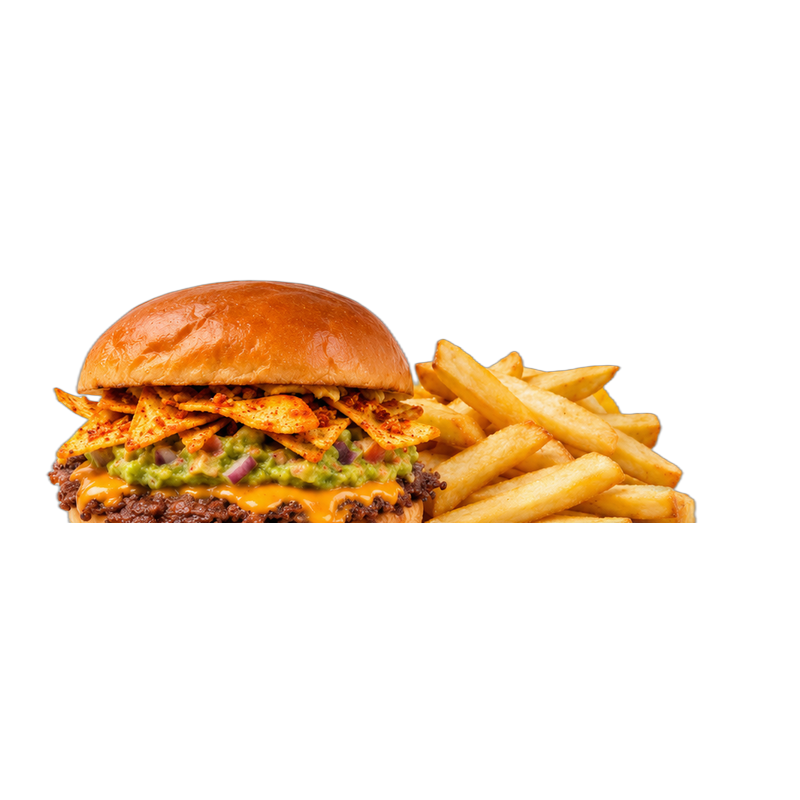
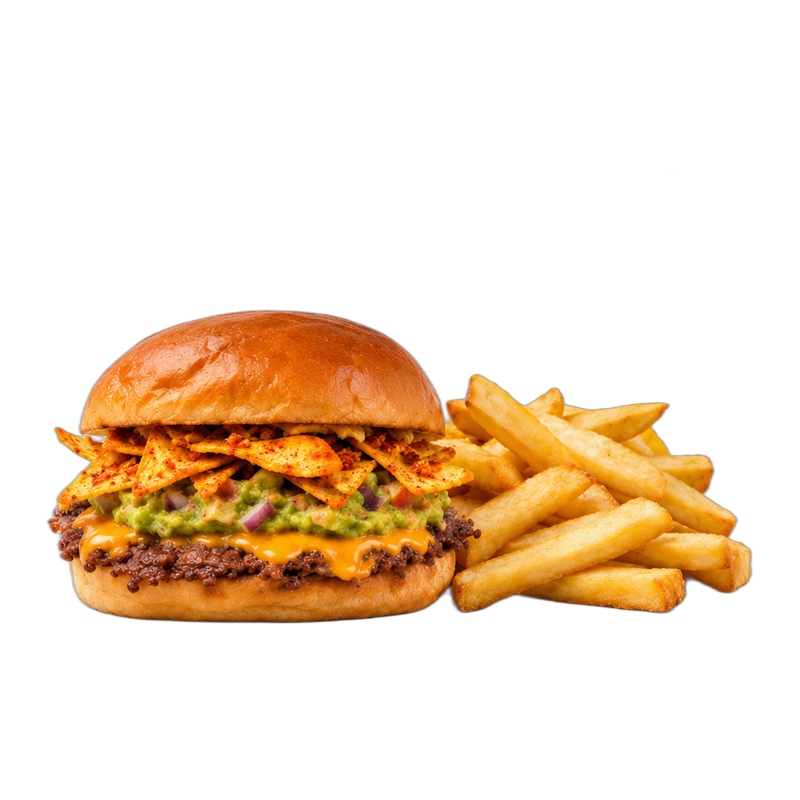
Fix chily-hot crop and switch to horizontal card layout
- Re-process chily-hot.png with extended crop (y=830 instead of y=745)
  so the full bottom bun is visible
- Change ItemCard from vertical layout (image on top, h-48) to
  horizontal layout (image left w-28 h-28, text right) so cards
  are more compact and don't dominate the page

Claude-Session: https://claude.ai/code/session_01WgVia66BJegSdRHZdDWkVD

Changed region(s): [[0.0625, 0.3438, 0.9375, 0.7812]]

diff --git a/app/menu/page.tsx b/app/menu/page.tsx
@@ -141,76 +141,71 @@ function ItemCard({
 
   return (
     <div className="bg-white rounded-lg shadow-sm border border-ink/5 flex flex-col transition-all duration-200 hover:shadow-lg hover:-translate-y-0.5 overflow-hidden">
-      {item.imagen && (
-        <div className="relative w-full bg-cream">
-          <Image
-            src={item.imagen}
-            alt={item.nombre}
-            width={800}
-            height={800}
-            className="w-full h-48 object-contain"
-          />
-        </div>
-      )}
-      <div className="p-4 flex flex-col flex-1">
-      {item.etiqueta && (
-        // Rojo de marca: la etiqueta avisa que el plato va y viene (edición
-        // limitada, solo finde) y en celeste se perdía contra el resto.
-        <span className="font-body text-[10px] font-bold uppercase tracking-wider mb-1 self-start text-red-primary">
-          {item.etiqueta}
-        </span>
-      )}
-      <div className="flex items-start gap-3">
-        <h3 className="font-display text-lg text-ink leading-tight flex-1">{item.nombre}</h3>
-        {opciones.length > 0 ? (
-          <BotonMas
-            onClick={() => setEligiendo((v) => !v)}
-            etiqueta={`Elegir opción de ${item.nombre}`}
-          />
-        ) : (
-          item.precio !== undefined && (
-            <BotonMas
-              onClick={() =>
-                onAgregar(item.nombre, item.precio as number, undefined, esBebida, item.soloEnLocal)
-              }
-              etiqueta={`Agregar ${item.nombre} al pedido`}
+      {/* Fila principal: foto a la izquierda + contenido a la derecha */}
+      <div className="flex gap-3 p-4">
+        {item.imagen && (
+          <div className="shrink-0 w-28 h-28 bg-cream rounded-md overflow-hidden">
+            <Image
+              src={item.imagen}
+              alt={item.nombre}
+              width={800}
+              height={800}
+              className="w-full h-full object-contain"
             />
-          )
+          </div>
         )}
-      </div>
-      {item.descripcion && (
-        <p className="font-body text-sm text-ink/60 mt-1 leading-relaxed flex-1">{item.descripcion}</p>
-      )}
-      {item.nota && (
-        // La nota del plato no se mostraba en ningún lado: estaba en los datos
-        // y no llegaba a la carta. Va en ámbar y no en gris porque avisa cosas
-        // que cambian el pedido, como hasta cuándo se consigue algo.
-        <p className="font-body text-sm font-semibold text-amber-600 mt-1.5">
-          ⚠ {item.nota}
-        </p>
-      )}
-      {item.precios && (
-        // Las iniciales S/D/T sólo se entienden en un plato que viene simple,
-        // doble o triple. Cuando el ítem nombra sus variantes —un trago va por
-        // vaso chico o grande— se escribe el nombre entero: "S $7.000" no le
-        // dice nada a nadie.
-        <div className="flex flex-wrap gap-x-4 gap-y-1 mt-3">
-          {preciosVisibles(item).map(({ etiqueta, precio }) => (
-            <span key={etiqueta} className="font-display text-lg">
-              <span className="text-ink/60">{etiqueta} </span>
-              <span className="text-red-primary">{formatPrecio(precio)}</span>
+        <div className="flex flex-col flex-1 min-w-0">
+          {item.etiqueta && (
+            <span className="font-body text-[10px] font-bold uppercase tracking-wider mb-1 self-start text-red-primary">
+              {item.etiqueta}
             </span>
-          ))}
+          )}
+          <div className="flex items-start gap-3">
+            <h3 className="font-display text-lg text-ink leading-tight flex-1">{item.nombre}</h3>
+            {opciones.length > 0 ? (
+              <BotonMas
+                onClick={() => setEligiendo((v) => !v)}
+                etiqueta={`Elegir opción de ${item.nombre}`}
+              />
+            ) : (
+              item.precio !== undefined && (
+                <BotonMas
+                  onClick={() =>
+                    onAgregar(item.nombre, item.precio as number, undefined, esBebida, item.soloEnLocal)
+                  }
+                  etiqueta={`Agregar ${item.nombre} al pedido`}
+                />
+              )
+            )}
+          </div>
+          {item.descripcion && (
+            <p className="font-body text-sm text-ink/60 mt-1 leading-relaxed">{item.descripcion}</p>
+          )}
+          {item.nota && (
+            <p className="font-body text-sm font-semibold text-amber-600 mt-1.5">
+              ⚠ {item.nota}
+            </p>
+          )}
+          {item.precios && (
+            <div className="flex flex-wrap gap-x-3 gap-y-1 mt-2">
+              {preciosVisibles(item).map(({ etiqueta, precio }) => (
+                <span key={etiqueta} className="font-display text-base">
+                  <span className="text-ink/60">{etiqueta} </span>
+                  <span className="text-red-primary">{formatPrecio(precio)}</span>
+                </span>
+              ))}
+            </div>
+          )}
+          {item.precio !== undefined && (
+            <p className="font-display text-base text-red-primary mt-1.5">
+              {formatPrecio(item.precio)}
+            </p>
+          )}
         </div>
-      )}
-      {item.precio !== undefined && (
-        <p className="font-display text-lg text-red-primary mt-2">
-          {formatPrecio(item.precio)}
-        </p>
-      )}
+      </div>
 
       {eligiendo && opciones.length > 0 && (
-        <div className="mt-3 border-t border-ink/10 pt-3">
+        <div className="mx-4 mb-4 border-t border-ink/10 pt-3">
           <p className="font-body text-sm uppercase tracking-wider text-ink/50 mb-2">
             {item.opciones?.length ? "¿Con qué relleno?" : "¿Cuál agregamos?"}
           </p>
@@ -231,7 +226,6 @@ function ItemCard({
           </div>
         </div>
       )}
-      </div>
     </div>
   );
 }
